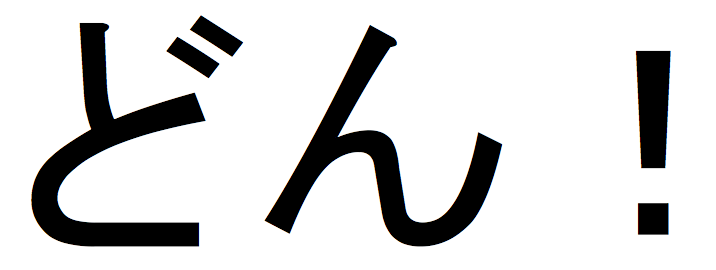
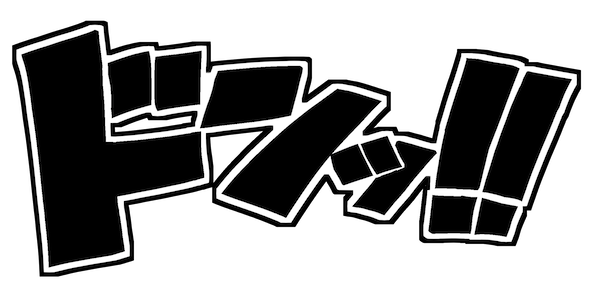
どん、を入れた

diff --git a/public/js/lib/turn.min.js b/public/js/lib/turn.min.js
@@ -1,0 +1,47 @@
+/* turn.js r3 | turnjs.com/license.txt */
+(function(h){var x,y="",G=Math.PI,E=G/2,q="Touch"in window,I=q?{start:"touchstart",move:"touchmove",end:"touchend"}:{start:"mousedown",move:"mousemove",end:"mouseup"},J={backward:["bl","tl"],forward:["br","tr"],all:["tl","bl","tr","br"]},O=["single","double"],P={page:1,gradients:!0,duration:600,acceleration:!0,display:"double",when:null},Q={folding:null,corners:"forward",cornerSize:100,gradients:!0,duration:600,acceleration:!0},K={"0":{top:0,left:0,right:"auto",bottom:"auto"},1:{top:0,right:0,left:"auto",
+bottom:"auto"}},l=function(a,b,c,d){return{css:{position:"absolute",top:a,left:b,overflow:d||"hidden","z-index":c||"auto"}}},L=function(a,b,c,d,e){var f=1-e,C=f*f*f,i=e*e*e;return j(Math.round(C*a.x+3*e*f*f*b.x+3*e*e*f*c.x+i*d.x),Math.round(C*a.y+3*e*f*f*b.y+3*e*e*f*c.y+i*d.y))},j=function(a,b){return{x:a,y:b}},s=function(a,b,c){return x&&c?" translate3d("+a+"px,"+b+"px, 0px) ":" translate("+a+"px, "+b+"px) "},t=function(a){return" rotate("+a+"deg) "},p=function(a,b){return Object.prototype.hasOwnProperty.call(b,
+a)},R=function(){for(var a=["Moz","Webkit","Khtml","O","ms"],b=a.length,c="";b--;)a[b]+"Transform"in document.body.style&&(c="-"+a[b].toLowerCase()+"-");return c},M=function(a,b,c,d,e){var f,C=[];if("-webkit-"==y){for(f=0;f<e;f++)C.push("color-stop("+d[f][0]+", "+d[f][1]+")");a.css({"background-image":"-webkit-gradient(linear, "+b.x+"% "+b.y+"%,  "+c.x+"% "+c.y+"%, "+C.join(",")+" )"})}else{var b={x:b.x/100*a.width(),y:b.y/100*a.height()},c={x:c.x/100*a.width(),y:c.y/100*a.height()},i=c.x-b.x;f=c.y-
+b.y;var h=Math.atan2(f,i),g=h-Math.PI/2,g=Math.abs(a.width()*Math.sin(g))+Math.abs(a.height()*Math.cos(g)),i=Math.sqrt(f*f+i*i),c=j(c.x<b.x?a.width():0,c.y<b.y?a.height():0),n=Math.tan(h);f=-1/n;n=(f*c.x-c.y-n*b.x+b.y)/(f-n);c=f*n-f*c.x+c.y;b=Math.sqrt(Math.pow(n-b.x,2)+Math.pow(c-b.y,2));for(f=0;f<e;f++)C.push(" "+d[f][1]+" "+100*(b+i*d[f][0])/g+"%");a.css({"background-image":y+"linear-gradient("+-h+"rad,"+C.join(",")+")"})}},g={init:function(a){void 0===x&&(x="WebKitCSSMatrix"in window||"MozPerspective"in
+document.body.style,y=R());var b,c=this.data(),d=this.children(),a=h.extend({width:this.width(),height:this.height()},P,a);c.opts=a;c.pageObjs={};c.pages={};c.pageWrap={};c.pagePlace={};c.pageMv=[];c.totalPages=a.pages||0;if(a.when)for(b in a.when)p(b,a.when)&&this.bind(b,a.when[b]);this.css({position:"relative",width:a.width,height:a.height});this.turn("display",a.display);x&&!q&&a.acceleration&&this.transform(s(0,0,!0));for(b=0;b<d.length;b++)this.turn("addPage",d[b],b+1);this.turn("page",a.page);
+J=h.extend({},J,a.corners);h(this).bind(I.start,function(a){for(var b in c.pages)if(p(b,c.pages)&&i._eventStart.call(c.pages[b],a)===false)return false});h(document).bind(I.move,function(a){for(var b in c.pages)p(b,c.pages)&&i._eventMove.call(c.pages[b],a)}).bind(I.end,function(a){for(var b in c.pages)p(b,c.pages)&&i._eventEnd.call(c.pages[b],a)});c.done=!0;return this},addPage:function(a,b){var c=!1,d=this.data(),e=d.totalPages+1;if(b)if(b==e)b=e,c=!0;else{if(b>e)throw Error('It is impossible to add the page "'+
+b+'", the maximum value is: "'+e+'"');}else b=e,c=!0;1<=b&&b<=e&&(d.done&&this.turn("stop"),b in d.pageObjs&&g._movePages.call(this,b,1),c&&(d.totalPages=e),d.pageObjs[b]=h(a).addClass("turn-page p"+b),g._addPage.call(this,b),d.done&&this.turn("update"),g._removeFromDOM.call(this));return this},_addPage:function(a){var b=this.data(),c=b.pageObjs[a];if(c)if(g._necessPage.call(this,a)){if(!b.pageWrap[a]){var d="double"==b.display?this.width()/2:this.width(),e=this.height();c.css({width:d,height:e});
+b.pagePlace[a]=a;b.pageWrap[a]=h("<div/>",{"class":"turn-page-wrapper",page:a,css:{position:"absolute",overflow:"hidden",width:d,height:e}}).css(K["double"==b.display?a%2:0]);this.append(b.pageWrap[a]);b.pageWrap[a].prepend(b.pageObjs[a])}(!a||1==g._setPageLoc.call(this,a))&&g._makeFlip.call(this,a)}else b.pagePlace[a]=0,b.pageObjs[a]&&b.pageObjs[a].remove()},hasPage:function(a){return a in this.data().pageObjs},_makeFlip:function(a){var b=this.data();if(!b.pages[a]&&b.pagePlace[a]==a){var c="single"==
+b.display,d=a%2;b.pages[a]=b.pageObjs[a].css({width:c?this.width():this.width()/2,height:this.height()}).flip({page:a,next:c&&a===b.totalPages?a-1:d||c?a+1:a-1,turn:this,duration:b.opts.duration,acceleration:b.opts.acceleration,corners:c?"all":d?"forward":"backward",backGradient:b.opts.gradients,frontGradient:b.opts.gradients}).flip("disable",b.disabled).bind("pressed",g._pressed).bind("released",g._released).bind("start",g._start).bind("end",g._end).bind("flip",g._flip)}return b.pages[a]},_makeRange:function(){var a;
+this.data();var b=this.turn("range");for(a=b[0];a<=b[1];a++)g._addPage.call(this,a)},range:function(a){var b,c,d=this.data(),a=a||d.tpage||d.page,e=g._view.call(this,a);if(1>a||a>d.totalPages)throw Error('"'+a+'" is not a page for range');e[1]=e[1]||e[0];1<=e[0]&&e[1]<=d.totalPages?(a=Math.floor(2),d.totalPages-e[1]>e[0]?(b=Math.min(e[0]-1,a),c=2*a-b):(c=Math.min(d.totalPages-e[1],a),b=2*a-c)):c=b=5;return[Math.max(1,e[0]-b),Math.min(d.totalPages,e[1]+c)]},_necessPage:function(a){if(0===a)return!0;
+var b=this.turn("range");return a>=b[0]&&a<=b[1]},_removeFromDOM:function(){var a,b=this.data();for(a in b.pageWrap)p(a,b.pageWrap)&&!g._necessPage.call(this,a)&&g._removePageFromDOM.call(this,a)},_removePageFromDOM:function(a){var b=this.data();if(b.pages[a]){var c=b.pages[a].data();c.f&&c.f.fwrapper&&c.f.fwrapper.remove();b.pages[a].remove();delete b.pages[a]}b.pageObjs[a]&&b.pageObjs[a].remove();b.pageWrap[a]&&(b.pageWrap[a].remove(),delete b.pageWrap[a]);delete b.pagePlace[a]},removePage:function(a){var b=
+this.data();b.pageObjs[a]&&(this.turn("stop"),g._removePageFromDOM.call(this,a),delete b.pageObjs[a],g._movePages.call(this,a,-1),b.totalPages-=1,g._makeRange.call(this),b.page>b.totalPages&&this.turn("page",b.totalPages));return this},_movePages:function(a,b){var c,d=this.data(),e="single"==d.display,f=function(a){var c=a+b,f=c%2;d.pageObjs[a]&&(d.pageObjs[c]=d.pageObjs[a].removeClass("page"+a).addClass("page"+c));d.pagePlace[a]&&d.pageWrap[a]&&(d.pagePlace[c]=c,d.pageWrap[c]=d.pageWrap[a].css(K[e?
+0:f]).attr("page",c),d.pages[a]&&(d.pages[c]=d.pages[a].flip("options",{page:c,next:e||f?c+1:c-1,corners:e?"all":f?"forward":"backward"})),b&&(delete d.pages[a],delete d.pagePlace[a],delete d.pageObjs[a],delete d.pageWrap[a],delete d.pageObjs[a]))};if(0<b)for(c=d.totalPages;c>=a;c--)f(c);else for(c=a;c<=d.totalPages;c++)f(c)},display:function(a){var b=this.data(),c=b.display;if(a){if(-1==h.inArray(a,O))throw Error('"'+a+'" is not a value for display');"single"==a?b.pageObjs[0]||(this.turn("stop").css({overflow:"hidden"}),
+b.pageObjs[0]=h("<div />",{"class":"turn-page p-temporal"}).css({width:this.width(),height:this.height()}).appendTo(this)):b.pageObjs[0]&&(this.turn("stop").css({overflow:""}),b.pageObjs[0].remove(),delete b.pageObjs[0]);b.display=a;c&&(a=this.turn("size"),g._movePages.call(this,1,0),this.turn("size",a.width,a.height).turn("update"));return this}return c},animating:function(){return 0<this.data().pageMv.length},disable:function(a){var b,c=this.data(),d=this.turn("view");c.disabled=void 0===a||!0===
+a;for(b in c.pages)p(b,c.pages)&&c.pages[b].flip("disable",a?h.inArray(b,d):!1);return this},size:function(a,b){if(a&&b){var c=this.data(),d="double"==c.display?a/2:a,e;this.css({width:a,height:b});c.pageObjs[0]&&c.pageObjs[0].css({width:d,height:b});for(e in c.pageWrap)p(e,c.pageWrap)&&(c.pageObjs[e].css({width:d,height:b}),c.pageWrap[e].css({width:d,height:b}),c.pages[e]&&c.pages[e].css({width:d,height:b}));this.turn("resize");return this}return{width:this.width(),height:this.height()}},resize:function(){var a,
+b=this.data();b.pages[0]&&(b.pageWrap[0].css({left:-this.width()}),b.pages[0].flip("resize",!0));for(a=1;a<=b.totalPages;a++)b.pages[a]&&b.pages[a].flip("resize",!0)},_removeMv:function(a){var b,c=this.data();for(b=0;b<c.pageMv.length;b++)if(c.pageMv[b]==a)return c.pageMv.splice(b,1),!0;return!1},_addMv:function(a){var b=this.data();g._removeMv.call(this,a);b.pageMv.push(a)},_view:function(a){var b=this.data(),a=a||b.page;return"double"==b.display?a%2?[a-1,a]:[a,a+1]:[a]},view:function(a){var b=this.data(),
+a=g._view.call(this,a);return"double"==b.display?[0<a[0]?a[0]:0,a[1]<=b.totalPages?a[1]:0]:[0<a[0]&&a[0]<=b.totalPages?a[0]:0]},stop:function(){var a,b,c=this.data(),d=c.pageMv;c.pageMv=[];c.tpage&&(c.page=c.tpage,delete c.tpage);for(a in d)p(a,d)&&(b=c.pages[d[a]].data().f.opts,i._moveFoldingPage.call(c.pages[d[a]],null),c.pages[d[a]].flip("hideFoldedPage"),c.pagePlace[b.next]=b.next,b.force&&(b.next=0===b.page%2?b.page-1:b.page+1,delete b.force));this.turn("update");return this},pages:function(a){var b=
+this.data();if(a){if(a<b.totalPages){for(var c=a+1;c<=b.totalPages;c++)this.turn("removePage",c);this.turn("page")>a&&this.turn("page",a)}b.totalPages=a;return this}return b.totalPages},_fitPage:function(a,b){var c=this.data(),d=this.turn("view",a);c.page!=a&&(this.trigger("turning",[a,d]),-1!=h.inArray(1,d)&&this.trigger("first"),-1!=h.inArray(c.totalPages,d)&&this.trigger("last"));c.pageObjs[a]&&(c.tpage=a,this.turn("stop",b),g._removeFromDOM.call(this),g._makeRange.call(this),this.trigger("turned",
+[a,d]))},_turnPage:function(a){var b,c,d=this.data(),e=this.turn("view"),f=this.turn("view",a);d.page!=a&&(this.trigger("turning",[a,f]),-1!=h.inArray(1,f)&&this.trigger("first"),-1!=h.inArray(d.totalPages,f)&&this.trigger("last"));if(d.pageObjs[a]&&(d.tpage=a,this.turn("stop"),g._makeRange.call(this),"single"==d.display?(b=e[0],c=f[0]):e[1]&&a>e[1]?(b=e[1],c=f[0]):e[0]&&a<e[0]&&(b=e[0],c=f[1]),d.pages[b]))a=d.pages[b].data().f.opts,d.tpage=c,a.next!=c&&(a.next=c,d.pagePlace[c]=a.page,a.force=!0),
+"single"==d.display?d.pages[b].flip("turnPage",f[0]>e[0]?"br":"bl"):d.pages[b].flip("turnPage")},page:function(a){var a=parseInt(a,10),b=this.data();return 0<a&&a<=b.totalPages?(!b.done||-1!=h.inArray(a,this.turn("view"))?g._fitPage.call(this,a):g._turnPage.call(this,a),this):b.page},next:function(){var a=this.data();return this.turn("page",g._view.call(this,a.page).pop()+1)},previous:function(){var a=this.data();return this.turn("page",g._view.call(this,a.page).shift()-1)},_addMotionPage:function(){var a=
+h(this).data().f.opts,b=a.turn,c=b.data();a.pageMv=a.page;g._addMv.call(b,a.pageMv);c.pagePlace[a.next]=a.page;b.turn("update")},_start:function(a,b,c){var d=b.turn.data(),e=h.Event("start");a.stopPropagation();b.turn.trigger(e,[b,c]);e.isDefaultPrevented()?a.preventDefault():("single"==d.display&&(c="l"==c.charAt(1),1==b.page&&c||b.page==d.totalPages&&!c?a.preventDefault():c?(b.next=b.next<b.page?b.next:b.page-1,b.force=!0):b.next=b.next>b.page?b.next:b.page+1),g._addMotionPage.call(this))},_end:function(a,
+b){var c=h(this).data().f.opts,d=c.turn,e=d.data();a.stopPropagation();if(b||e.tpage){if(e.tpage==c.next||e.tpage==c.page)delete e.tpage,g._fitPage.call(d,e.tpage||c.next,!0)}else g._removeMv.call(d,c.pageMv),d.turn("update")},_pressed:function(){var a,b=h(this).data().f,c=b.opts.turn.data().pages;for(a in c)a!=b.opts.page&&c[a].flip("disable",!0);return b.time=(new Date).getTime()},_released:function(a,b){var c=h(this),d=c.data().f;a.stopPropagation();if(200>(new Date).getTime()-d.time||0>b.x||b.x>
+h(this).width())a.preventDefault(),d.opts.turn.data().tpage=d.opts.next,d.opts.turn.turn("update"),h(c).flip("turnPage")},_flip:function(){var a=h(this).data().f.opts;a.turn.trigger("turn",[a.next])},calculateZ:function(a){var b,c,d,e,f=this,i=this.data();b=this.turn("view");var h=b[0]||b[1],g={pageZ:{},partZ:{},pageV:{}},j=function(a){a=f.turn("view",a);a[0]&&(g.pageV[a[0]]=!0);a[1]&&(g.pageV[a[1]]=!0)};for(b=0;b<a.length;b++)c=a[b],d=i.pages[c].data().f.opts.next,e=i.pagePlace[c],j(c),j(d),c=i.pagePlace[d]==
+d?d:c,g.pageZ[c]=i.totalPages-Math.abs(h-c),g.partZ[e]=2*i.totalPages+Math.abs(h-c);return g},update:function(){var a,b=this.data();if(b.pageMv.length&&0!==b.pageMv[0]){var c=this.turn("calculateZ",b.pageMv);this.turn("view",b.tpage);for(a in b.pageWrap)p(a,b.pageWrap)&&(b.pageWrap[a].css({display:c.pageV[a]?"":"none","z-index":c.pageZ[a]||0}),b.pages[a]&&(b.pages[a].flip("z",c.partZ[a]||null),c.pageV[a]&&b.pages[a].flip("resize"),b.tpage&&b.pages[a].flip("disable",!0)))}else for(a in b.pageWrap)p(a,
+b.pageWrap)&&(c=g._setPageLoc.call(this,a),b.pages[a]&&b.pages[a].flip("disable",b.disabled||1!=c).flip("z",null))},_setPageLoc:function(a){var b=this.data(),c=this.turn("view");if(a==c[0]||a==c[1])return b.pageWrap[a].css({"z-index":b.totalPages,display:""}),1;if("single"==b.display&&a==c[0]+1||"double"==b.display&&a==c[0]-2||a==c[1]+2)return b.pageWrap[a].css({"z-index":b.totalPages-1,display:""}),2;b.pageWrap[a].css({"z-index":0,display:"none"});return 0}},i={init:function(a){a.gradients&&(a.frontGradient=
+!0,a.backGradient=!0);this.data({f:{}});this.flip("options",a);i._addPageWrapper.call(this);return this},setData:function(a){var b=this.data();b.f=h.extend(b.f,a);return this},options:function(a){var b=this.data().f;return a?(i.setData.call(this,{opts:h.extend({},b.opts||Q,a)}),this):b.opts},z:function(a){var b=this.data().f;b.opts["z-index"]=a;b.fwrapper.css({"z-index":a||parseInt(b.parent.css("z-index"),10)||0});return this},_cAllowed:function(){return J[this.data().f.opts.corners]||this.data().f.opts.corners},
+_cornerActivated:function(a){if(void 0===a.originalEvent)return!1;var a=q?a.originalEvent.touches:[a],b=this.data().f,c=b.parent.offset(),d=this.width(),e=this.height(),a={x:Math.max(0,a[0].pageX-c.left),y:Math.max(0,a[0].pageY-c.top)},b=b.opts.cornerSize,c=i._cAllowed.call(this);if(0>=a.x||0>=a.y||a.x>=d||a.y>=e)return!1;if(a.y<b)a.corner="t";else if(a.y>=e-b)a.corner="b";else return!1;if(a.x<=b)a.corner+="l";else if(a.x>=d-b)a.corner+="r";else return!1;return-1==h.inArray(a.corner,c)?!1:a},_c:function(a,
+b){b=b||0;return{tl:j(b,b),tr:j(this.width()-b,b),bl:j(b,this.height()-b),br:j(this.width()-b,this.height()-b)}[a]},_c2:function(a){return{tl:j(2*this.width(),0),tr:j(-this.width(),0),bl:j(2*this.width(),this.height()),br:j(-this.width(),this.height())}[a]},_foldingPage:function(){var a=this.data().f.opts;if(a.folding)return a.folding;if(a.turn){var b=a.turn.data();return"single"==b.display?b.pageObjs[a.next]?b.pageObjs[0]:null:b.pageObjs[a.next]}},_backGradient:function(){var a=this.data().f,b=a.opts.turn;
+if((b=a.opts.backGradient&&(!b||"single"==b.data().display||2!=a.opts.page&&a.opts.page!=b.data().totalPages-1))&&!a.bshadow)a.bshadow=h("<div/>",l(0,0,1)).css({position:"",width:this.width(),height:this.height()}).appendTo(a.parent);return b},resize:function(a){var b=this.data().f,c=this.width(),d=this.height(),e=Math.round(Math.sqrt(Math.pow(c,2)+Math.pow(d,2)));a&&(b.wrapper.css({width:e,height:e}),b.fwrapper.css({width:e,height:e}).children(":first-child").css({width:c,height:d}),b.fpage.css({width:d,
+height:c}),b.opts.frontGradient&&b.ashadow.css({width:d,height:c}),i._backGradient.call(this)&&b.bshadow.css({width:c,height:d}));b.parent.is(":visible")&&(b.fwrapper.css({top:b.parent.offset().top,left:b.parent.offset().left}),b.opts.turn&&b.fparent.css({top:-b.opts.turn.offset().top,left:-b.opts.turn.offset().left}));this.flip("z",b.opts["z-index"])},_addPageWrapper:function(){var a=this.data().f,b=this.parent();if(!a.wrapper){this.css("left");this.css("top");var c=this.width(),d=this.height();
+Math.round(Math.sqrt(Math.pow(c,2)+Math.pow(d,2)));a.parent=b;a.fparent=a.opts.turn?a.opts.turn.data().fparent:h("#turn-fwrappers");a.fparent||(c=h("<div/>",{css:{"pointer-events":"none"}}).hide(),c.data().flips=0,a.opts.turn?(c.css(l(-a.opts.turn.offset().top,-a.opts.turn.offset().left,"auto","visible").css).appendTo(a.opts.turn),a.opts.turn.data().fparent=c):c.css(l(0,0,"auto","visible").css).attr("id","turn-fwrappers").appendTo(h("body")),a.fparent=c);this.css({position:"absolute",top:0,left:0,
+bottom:"auto",right:"auto"});a.wrapper=h("<div/>",l(0,0,this.css("z-index"))).appendTo(b).prepend(this);a.fwrapper=h("<div/>",l(b.offset().top,b.offset().left)).hide().appendTo(a.fparent);a.fpage=h("<div/>",{css:{cursor:"default"}}).appendTo(h("<div/>",l(0,0,0,"visible")).appendTo(a.fwrapper));a.opts.frontGradient&&(a.ashadow=h("<div/>",l(0,0,1)).appendTo(a.fpage));i.setData.call(this,a);i.resize.call(this,!0)}},_fold:function(a){var b=this,c=0,d=0,e,f,h,g,v,H,n=j(0,0),p=j(0,0),k=j(0,0),r=this.width(),
+u=this.height(),l=i._foldingPage.call(this);Math.tan(d);var o=this.data().f,w=o.opts.acceleration,y=o.wrapper.height(),q=i._c.call(this,a.corner),D="t"==a.corner.substr(0,1),A="l"==a.corner.substr(1,1),F=function(){var m=j(q.x?q.x-a.x:a.x,q.y?q.y-a.y:a.y),B=Math.atan2(m.y,m.x),z;d=E-B;c=180*(d/G);z=j(A?r-m.x/2:a.x+m.x/2,m.y/2);var l=d-Math.atan2(z.y,z.x),l=Math.max(0,Math.sin(l)*Math.sqrt(Math.pow(z.x,2)+Math.pow(z.y,2)));k=j(l*Math.sin(d),l*Math.cos(d));if(d>E&&(k.x+=Math.abs(k.y*Math.tan(B)),k.y=
+0,Math.round(k.x*Math.tan(G-d))<u))return a.y=Math.sqrt(Math.pow(u,2)+2*z.x*m.x),D&&(a.y=u-a.y),F();if(d>E&&(m=G-d,B=y-u/Math.sin(m),n=j(Math.round(B*Math.cos(m)),Math.round(B*Math.sin(m))),A&&(n.x=-n.x),D))n.y=-n.y;e=Math.round(k.y/Math.tan(d)+k.x);m=r-e;B=m*Math.cos(2*d);z=m*Math.sin(2*d);p=j(Math.round(A?m-B:e+B),Math.round(D?z:u-z));v=m*Math.sin(d);m=i._c2.call(b,a.corner);m=Math.sqrt(Math.pow(m.x-a.x,2)+Math.pow(m.y-a.y,2));H=m<r?m/r:1;if(o.opts.frontGradient&&(g=100<v?(v-100)/v:0,f=j(100*(v*
+Math.sin(E-d)/u),100*(v*Math.cos(E-d)/r)),D&&(f.y=100-f.y),A))f.x=100-f.x;if(i._backGradient.call(b)&&(h=j(100*(v*Math.sin(d)/r),100*(v*Math.cos(d)/u)),A||(h.x=100-h.x),!D))h.y=100-h.y;k.x=Math.round(k.x);k.y=Math.round(k.y);return!0},x=function(a,c,e,k){var l=["0","auto"],v=(r-y)*e[0]/100,q=(u-y)*e[1]/100,c={left:l[c[0]],top:l[c[1]],right:l[c[2]],bottom:l[c[3]]},l=90!=k&&-90!=k?A?-1:1:0,e=e[0]+"% "+e[1]+"%";b.css(c).transform(t(k)+s(a.x+l,a.y,w),e);o.fpage.parent().css(c);o.wrapper.transform(s(-a.x+
+v-l,-a.y+q,w)+t(-k),e);o.fwrapper.transform(s(-a.x+n.x+v,-a.y+n.y+q,w)+t(-k),e);o.fpage.parent().transform(t(k)+s(a.x+p.x-n.x,a.y+p.y-n.y,w),e);o.opts.frontGradient&&M(o.ashadow,j(A?100:0,D?100:0),j(f.x,f.y),[[g,"rgba(0,0,0,0)"],[0.8*(1-g)+g,"rgba(0,0,0,"+0.2*H+")"],[1,"rgba(255,255,255,"+0.2*H+")"]],3,d);i._backGradient.call(b)&&M(o.bshadow,j(A?0:100,D?0:100),j(h.x,h.y),[[0.8,"rgba(0,0,0,0)"],[1,"rgba(0,0,0,"+0.3*H+")"],[1,"rgba(0,0,0,0)"]],3)};switch(a.corner){case "tl":a.x=Math.max(a.x,1);F();
+x(k,[1,0,0,1],[100,0],c);o.fpage.transform(s(-u,-r,w)+t(90-2*c),"100% 100%");l.transform(t(90)+s(0,-u,w),"0% 0%");break;case "tr":a.x=Math.min(a.x,r-1);F();x(j(-k.x,k.y),[0,0,0,1],[0,0],-c);o.fpage.transform(s(0,-r,w)+t(-90+2*c),"0% 100%");l.transform(t(270)+s(-r,0,w),"0% 0%");break;case "bl":a.x=Math.max(a.x,1);F();x(j(k.x,-k.y),[1,1,0,0],[100,100],-c);o.fpage.transform(s(-u,0,w)+t(-90+2*c),"100% 0%");l.transform(t(270)+s(-r,0,w),"0% 0%");break;case "br":a.x=Math.min(a.x,r-1),F(),x(j(-k.x,-k.y),
+[0,1,1,0],[0,100],c),o.fpage.transform(t(90-2*c),"0% 0%"),l.transform(t(90)+s(0,-u,w),"0% 0%")}o.point=a},_moveFoldingPage:function(a){var b=this.data().f,c=i._foldingPage.call(this);if(c)if(a){if(!b.fpage.children()[b.ashadow?"1":"0"])i.setData.call(this,{backParent:c.parent()}),b.fpage.prepend(c)}else b.backParent&&b.backParent.prepend(c)},_showFoldedPage:function(a,b){var c=i._foldingPage.call(this),d=this.data(),e=d.f;if(!e.point||e.point.corner!=a.corner){var f=h.Event("start");this.trigger(f,
+[e.opts,a.corner]);if(f.isDefaultPrevented())return!1}if(c){if(b){var g=this,c=e.point&&e.point.corner==a.corner?e.point:i._c.call(this,a.corner,1);this.animatef({from:[c.x,c.y],to:[a.x,a.y],duration:500,frame:function(b){a.x=Math.round(b[0]);a.y=Math.round(b[1]);i._fold.call(g,a)}})}else i._fold.call(this,a),d.effect&&!d.effect.turning&&this.animatef(!1);e.fwrapper.is(":visible")||(e.fparent.show().data().flips++,i._moveFoldingPage.call(this,!0),e.fwrapper.show(),e.bshadow&&e.bshadow.show());return!0}return!1},
+hide:function(){var a=this.data().f,b=i._foldingPage.call(this);0===--a.fparent.data().flips&&a.fparent.hide();this.css({left:0,top:0,right:"auto",bottom:"auto"}).transform("","0% 100%");a.wrapper.transform("","0% 100%");a.fwrapper.hide();a.bshadow&&a.bshadow.hide();b.transform("","0% 0%");return this},hideFoldedPage:function(a){var b=this.data().f;if(b.point){var c=this,d=b.point,e=function(){b.point=null;c.flip("hide");c.trigger("end",[!1])};if(a){var f=i._c.call(this,d.corner),a="t"==d.corner.substr(0,
+1)?Math.min(0,d.y-f.y)/2:Math.max(0,d.y-f.y)/2,h=j(d.x,d.y+a),g=j(f.x,f.y-a);this.animatef({from:0,to:1,frame:function(a){a=L(d,h,g,f,a);d.x=a.x;d.y=a.y;i._fold.call(c,d)},complete:e,duration:800,hiding:!0})}else this.animatef(!1),e()}},turnPage:function(a){var b=this,c=this.data().f,a={corner:c.corner?c.corner.corner:a||i._cAllowed.call(this)[0]},d=c.point||i._c.call(this,a.corner,c.opts.turn?c.opts.turn.data().opts.elevation:0),e=i._c2.call(this,a.corner);this.trigger("flip").animatef({from:0,to:1,
+frame:function(c){c=L(d,d,e,e,c);a.x=c.x;a.y=c.y;i._showFoldedPage.call(b,a)},complete:function(){b.trigger("end",[!0])},duration:c.opts.duration,turning:!0});c.corner=null},moving:function(){return"effect"in this.data()},isTurning:function(){return this.flip("moving")&&this.data().effect.turning},_eventStart:function(a){var b=this.data().f;if(!b.disabled&&!this.flip("isTurning")){b.corner=i._cornerActivated.call(this,a);if(b.corner&&i._foldingPage.call(this,b.corner))return i._moveFoldingPage.call(this,
+!0),this.trigger("pressed",[b.point]),!1;b.corner=null}},_eventMove:function(a){var b=this.data().f;if(!b.disabled)if(a=q?a.originalEvent.touches:[a],b.corner){var c=b.parent.offset();b.corner.x=a[0].pageX-c.left;b.corner.y=a[0].pageY-c.top;i._showFoldedPage.call(this,b.corner)}else!this.data().effect&&this.is(":visible")&&((a=i._cornerActivated.call(this,a[0]))?(b=i._c.call(this,a.corner,b.opts.cornerSize/2),a.x=b.x,a.y=b.y,i._showFoldedPage.call(this,a,!0)):i.hideFoldedPage.call(this,!0))},_eventEnd:function(){var a=
+this.data().f;if(!a.disabled&&a.point){var b=h.Event("released");this.trigger(b,[a.point]);b.isDefaultPrevented()||i.hideFoldedPage.call(this,!0)}a.corner=null},disable:function(a){i.setData.call(this,{disabled:a});return this}},N=function(a,b,c){if(!c[0]||"object"==typeof c[0])return b.init.apply(a,c);if(b[c[0]]&&"_"!=c[0].toString().substr(0,1))return b[c[0]].apply(a,Array.prototype.slice.call(c,1));throw c[0]+" is an invalid value";};h.extend(h.fn,{flip:function(a,b){return N(this,i,arguments)},
+turn:function(a){return N(this,g,arguments)},transform:function(a,b){var c={};b&&(c[y+"transform-origin"]=b);c[y+"transform"]=a;return this.css(c)},animatef:function(a){var b=this.data();b.effect&&clearInterval(b.effect.handle);if(a){a.to.length||(a.to=[a.to]);a.from.length||(a.from=[a.from]);a.easing||(a.easing=function(a,b,c,d,e){return d*Math.sqrt(1-(b=b/e-1)*b)+c});var c,d=[],e=a.to.length,f=this,h=a.fps||30,i=-h,g=function(){var c,g=[];i=Math.min(a.duration,i+h);for(c=0;c<e;c++)g.push(a.easing(1,
+i,a.from[c],d[c],a.duration));a.frame(e==1?g[0]:g);if(i==a.duration){clearInterval(b.effect.handle);delete b.effect;f.data(b);a.complete&&a.complete()}};for(c=0;c<e;c++)d.push(a.to[c]-a.from[c]);b.effect=a;b.effect.handle=setInterval(g,h);this.data(b);g()}else delete b.effect}});h.isTouch=q})(jQuery);

diff --git a/public/js/pages/SoundEffects.js b/public/js/pages/SoundEffects.js
@@ -1,31 +1,25 @@
 (function(global) {
     'use strict';
 
-    var goImg = (function() {
+    function loadImage(src, onload) {
         var img = new Image();
-        img.src = '/img/go_line_200.png';
+        img.src = src;
+        img.onload = onload;
         return img;
-    })();
-    var dotImg = (function() {
-        var img = new Image();
-        img.src = '/img/dot_line_200.png';
-        return img;
-    })();
-    var donImg = (function() {
-        var img = new Image();
-        img.src = '/img/don.png';
-        return img;
-    })();
-    var banImg = (function() {
-        var img = new Image();
-        img.src = '/img/ban.png';
-        return img;
-    })();
+    }
+    
+    var goImg = loadImage('/img/go.png');
+    var dotImg = loadImage('/img/dot.png');
+    var donImg = loadImage('/img/don.png');
+    var banImg = loadImage('/img/ban.png');
+    var zawaImg = loadImage('/img/zawa.png');
+    var shi_nImg = loadImage('/img/shi-n.png');
+    
     var commandImgs = {
         don: {
             img: donImg,
             x: 200,
-            y: 200
+            y: 20
         },
         ban: {
             img: banImg,
@@ -138,8 +132,9 @@
         command: function(cmd) {
             var commandImgInfo = commandImgs[cmd];
             var commandImg = commandImgInfo.img;
-            
-            this.ctx.drawImage(commandImg, commandImgInfo.x, commandImgInfo.y, commandImg.naturalWidth, commandImg.naturalHeight);
+
+            var x = (this.canvas.width - commandImg.naturalWidth) / 2;
+            this.ctx.drawImage(commandImg, x, commandImgInfo.y, commandImg.naturalWidth, commandImg.naturalHeight);
         }
     };
     global.SoundEffects = SoundEffects;

diff --git a/public/js/pages/listImages.js b/public/js/pages/listImages.js
@@ -1,0 +1,39 @@
+$(function() {
+    'use strict';
+    var imageList = $('#image-list');
+    var canvasSaver = new CanvasSaver();
+    canvasSaver.init(function(error, fs) {
+        if (error) {
+            console.error(error);
+            return;
+        }
+        loadImages();
+    });
+
+    var loadImages = function() {
+        imageList.empty();
+        canvasSaver.list(function(error, urls) {
+            if (error) {
+                console.error(error);
+                return;
+            }
+            urls.forEach(function(url) {
+                var li = $(document.createElement('li'));
+                var img = $(document.createElement('img'));
+                img.attr({
+                    src: url
+                });
+                li.append(img).appendTo(imageList);
+            });
+            imageList.turn();
+        });
+    };
+    $('#clearButton').on('click', function() {
+        canvasSaver.clear(function(error, result) {
+            if (error) {
+                console.error(error);
+            }
+            loadImages();
+        });
+    });
+});

diff --git a/public/js/pages/index.js b/public/js/pages/index.js
@@ -41,6 +41,11 @@ $("#blight").val(effect.blight)
 $("#pow").on("click", function(e){e.preventDefault();MyPow.pow();})
 $("#go3").on("click", function(e){e.preventDefault();MyGogogo.go3();})
 $("#dot").on("click", function(e){e.preventDefault();MyGogogo.dot();})
+
+var soundCommand = null;
+$('#soundCommandButton').on('click', function() {
+    soundCommand = $('#command').val();
+});
 $("#saveCanvas").on("change", function(e) {
     saveCanvasNeeded = this.checked;
 });
@@ -87,6 +92,12 @@ $v_.on("playing", function(){
                     console.log('saved!');
                 }
             });
+        }
+        if (soundCommand) {
+            soundEffects.command(soundCommand);
+            setTimeout(function() {
+                soundCommand = null;
+            }, 3000);
         }
         recognizedText = null;
         soundEffects.draw();

diff --git a/public/listImages.html b/public/listImages.html
@@ -1,0 +1,26 @@
+<!DOCTYPE html>
+<html>
+  <head>
+    <meta charset="UTF-8">
+    <title>マンガ化された動画一覧</title>
+    <style>
+      #image-list {
+        width: 1280px;
+        height: 480px;
+      }
+      #image-list li {
+        width: 640px;
+        height: 480px;
+      }
+    </style>
+  </head>
+  <body>
+    <ol id="image-list">
+    </ol>
+    <button id="clearButton">全部削除</button>
+    <script src="js/lib/jquery-1.9.1.min.js"></script>
+    <script src="js/lib/turn.min.js"></script>
+    <script src="js/pages/CanvasSaver.js"></script>
+    <script src="js/pages/listImages.js"></script>
+  </body>
+</html>
